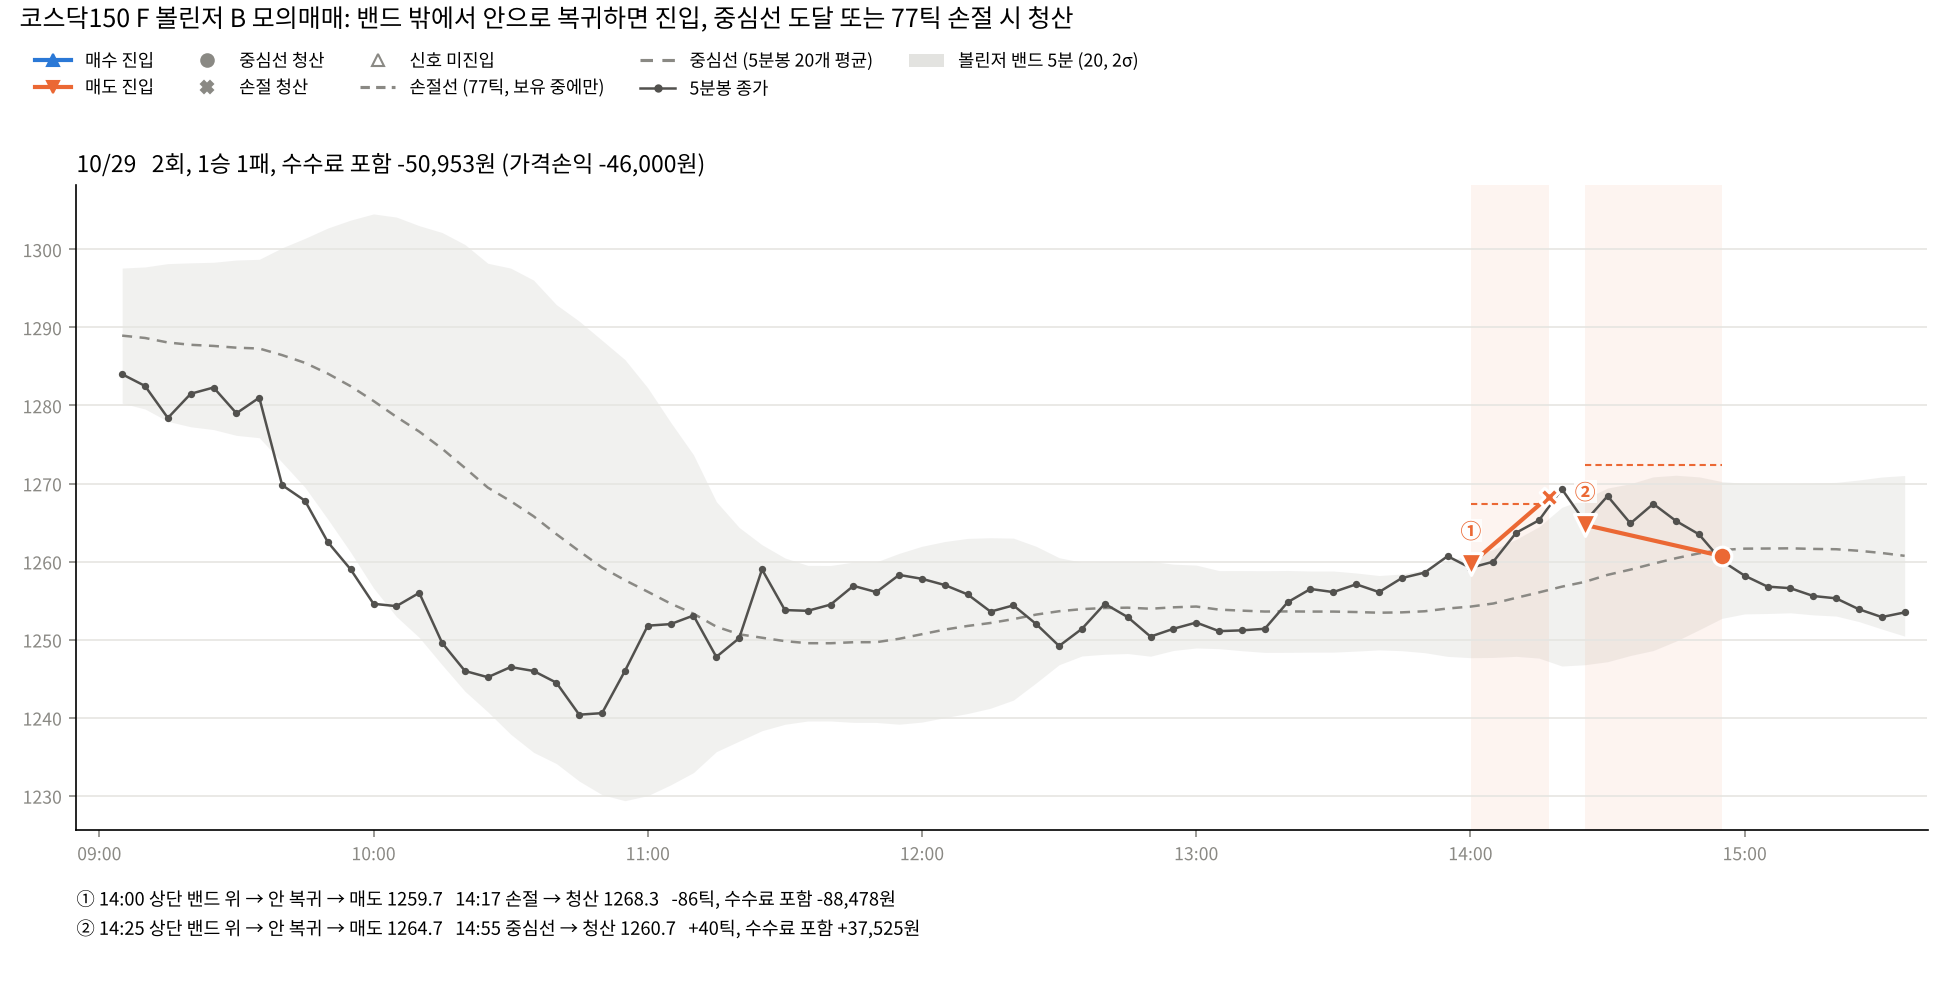
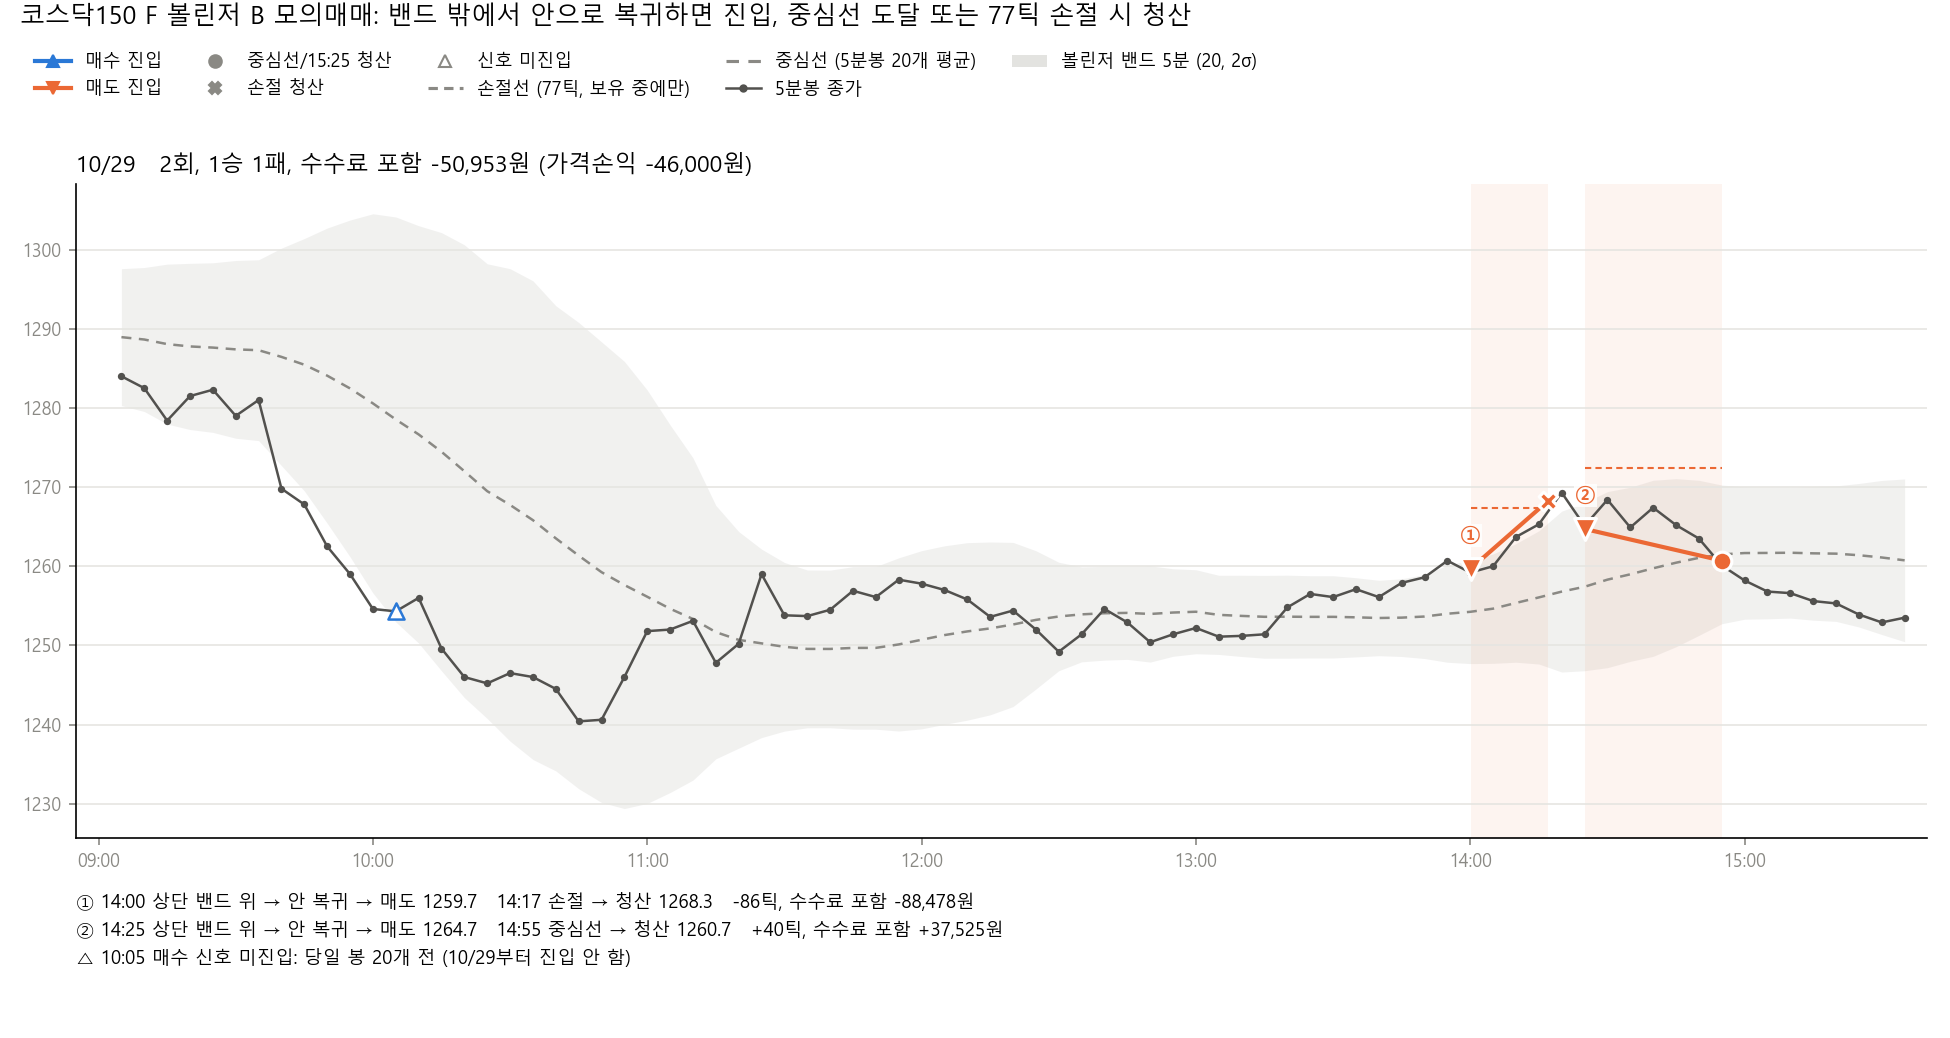
week02: README 링크·7절 수치 갱신, 차트에 당일 봉 대기로 막힌 신호 표시

diff --git a/week02/plot_journal.py b/week02/plot_journal.py
@@ -11,7 +11,7 @@ import matplotlib.pyplot as plt
 import pandas as pd
 
 from fetch_bars import RESULTS, SYM, chart_client, load
-from strategy import MULT, P, TICK, bollinger
+from strategy import MULT, P, TICK, WARMUP, bollinger
 
 ENTRY_UNTIL = P["entry_window_close_time"][1]
 LOSS_LIMIT = P["daily_loss_limit_krw"]
@@ -38,6 +38,7 @@ def bars5(days):
     sd = b5.close.rolling(n).std(ddof=ddof)
     b5["up"], b5["lo"] = b5.mid + k * sd, b5.mid - k * sd
     b5["entry"] = bollinger(b5).entry.values
+    b5["raw"] = bollinger(b5, warmup=1).entry.values  # 당일 봉 대기 조건이 없었다면 나왔을 신호
     b5 = b5.set_index("close_t")
     return b5
 
@@ -176,6 +177,9 @@ def main_simple(day):
     ticks, trades, start = load_journal(day)
     assert {en["ts"].replace(second=0) for en, _ in trades} <= set(b.index[b.entry != 0]), "저널 진입이 신호와 다르다"
     _, skipped = explain(b5, b, ticks, trades, start)
+    skipped += [(t, int(r.raw), f"당일 봉 {WARMUP}개 전 (10/29부터 진입 안 함)")
+                for t, r in b[(b.raw != 0) & (b.entry == 0)].iterrows()]
+    skipped.sort(key=lambda s: s[0])
     d = pd.Timestamp(day)
 
     fig, (ax, tx) = plt.subplots(2, 1, figsize=(13, 6.2 + 0.24 * (len(trades) + len(skipped))),
@@ -199,7 +203,8 @@ def main_simple(day):
                     bbox=dict(fc="white", ec="none", pad=0.5, alpha=0.85))
         why = "하단 밴드 아래 → 안 복귀" if en["side"] > 0 else "상단 밴드 위 → 안 복귀"
         lines.append(f"{NUM[i]} {en['ts']:%H:%M} {why} → {name} {en['entry']:.1f}   "
-                     f"{ex['ts']:%H:%M} {ex['reason']} → 청산 {ex['exit']:.1f}   {moved:+d}틱, 수수료 포함 {ex['pnl']:+,}원")
+                     f"{ex['ts']:%H:%M} {'운영 종료' if ex['reason'] == '15:25' else ex['reason']} → 청산 {ex['exit']:.1f}   "
+                     f"{moved:+d}틱, 수수료 포함 {ex['pnl']:+,}원")
     for t, side, why in skipped:
         ax.scatter(t, b.loc[t].close, marker=SIDE[side][2], s=60, facecolor="white", edgecolor=SIDE[side][1], lw=1.2, zorder=4)
         lines.append(f"△ {t:%H:%M} {SIDE[side][0]} 신호 미진입: {why}")
@@ -215,7 +220,7 @@ def main_simple(day):
     ax.set_title(f"{d:%m/%d}   {len(trades)}회, {win}승 {len(trades) - win}패, 수수료 포함 {total:+,}원 "
                  f"(가격손익 {gross:+,.0f}원)", loc="left", fontsize=11)
     handles = [plt.Line2D([], [], color=c, marker=m, lw=2, label=f"{n} 진입") for n, c, m in SIDE.values()]
-    handles += [plt.Line2D([], [], color=MUTED, marker="o", lw=0, label="중심선 청산"),
+    handles += [plt.Line2D([], [], color=MUTED, marker="o", lw=0, label="중심선/15:25 청산"),
                 plt.Line2D([], [], color=MUTED, marker="X", lw=0, label="손절 청산"),
                 plt.Line2D([], [], color=MUTED, marker="^", mfc="white", lw=0, label="신호 미진입"),
                 plt.Line2D([], [], color=MUTED, ls=(0, (3, 2)), label=f"손절선 ({P['stop_ticks']}틱, 보유 중에만)"),

diff --git a/week02/README.md b/week02/README.md
@@ -282,8 +282,8 @@ week02 폴더에 `STOP` 파일을 만들면 다음 분에 청산하고 종료한
 
 | 문제 | 영향 | 개선 방향 |
 | --- | --- | --- |
-| 5분봉 조회가 실패하면 그 분의 손절과 15:25 청산 판단도 건너뛴다 | 조회 장애 중 손실 확대 가능 (10/26~28 발생 0건) | 손절과 시간 청산을 차트 조회보다 먼저 판단 |
-| 손절을 1분에 한 번만 확인 | 손절 5회 중 4회가 손절선보다 2~24틱 더 손실 | 확인 간격 단축 검토 |
+| 5분봉 조회가 실패하면 그 분의 손절과 15:25 청산 판단도 건너뛴다 | 조회 장애 중 손실 확대 가능 (10/26~30 발생 0건) | 손절과 시간 청산을 차트 조회보다 먼저 판단 |
+| 손절을 1분에 한 번만 확인 | 손절 6회 중 5회가 손절선보다 2~24틱 더 손실 | 확인 간격 단축 검토 |
 | 일일 한도가 실현 손실만 봄 | 10/27 한도 31,946원 초과 | 다음 손절 1회분 손실을 미리 더해 진입 여부 판단 |
 | 주문 결과를 확인하지 못한 경우 다음 신호에서 다시 주문할 수 있음 | 중복 포지션 가능 (발생 0건) | 미확인 주문이 있으면 자동 주문 중지 |
 | 백테스트 수수료 0원 | 백테스트 손익 과대평가 | 실측 수수료율 반영 |

diff --git a/README.md b/README.md
@@ -14,7 +14,7 @@
 | 주차 | 제출일 | 주제 |
 | --- | --- | --- |
 | [1주차](week01/README.md) | 2026/10/23 | 팀 GitHub 준비·API 첫 호출 |
-| 2주차 | 2026/10/30 | 국내상품 전략 구현 |
+| [2주차](week02/README.md) | 2026/10/30 | 국내상품 전략 구현 |
 | 3주차 | 2026/11/06 | 해외상품·거래소 전략 구현 |
 | 4주차 | 2026/11/13 | 복수상품·스프레드 전략 |
 | 5주차 | 2026/11/20 | 데이터 기반 전략 |
